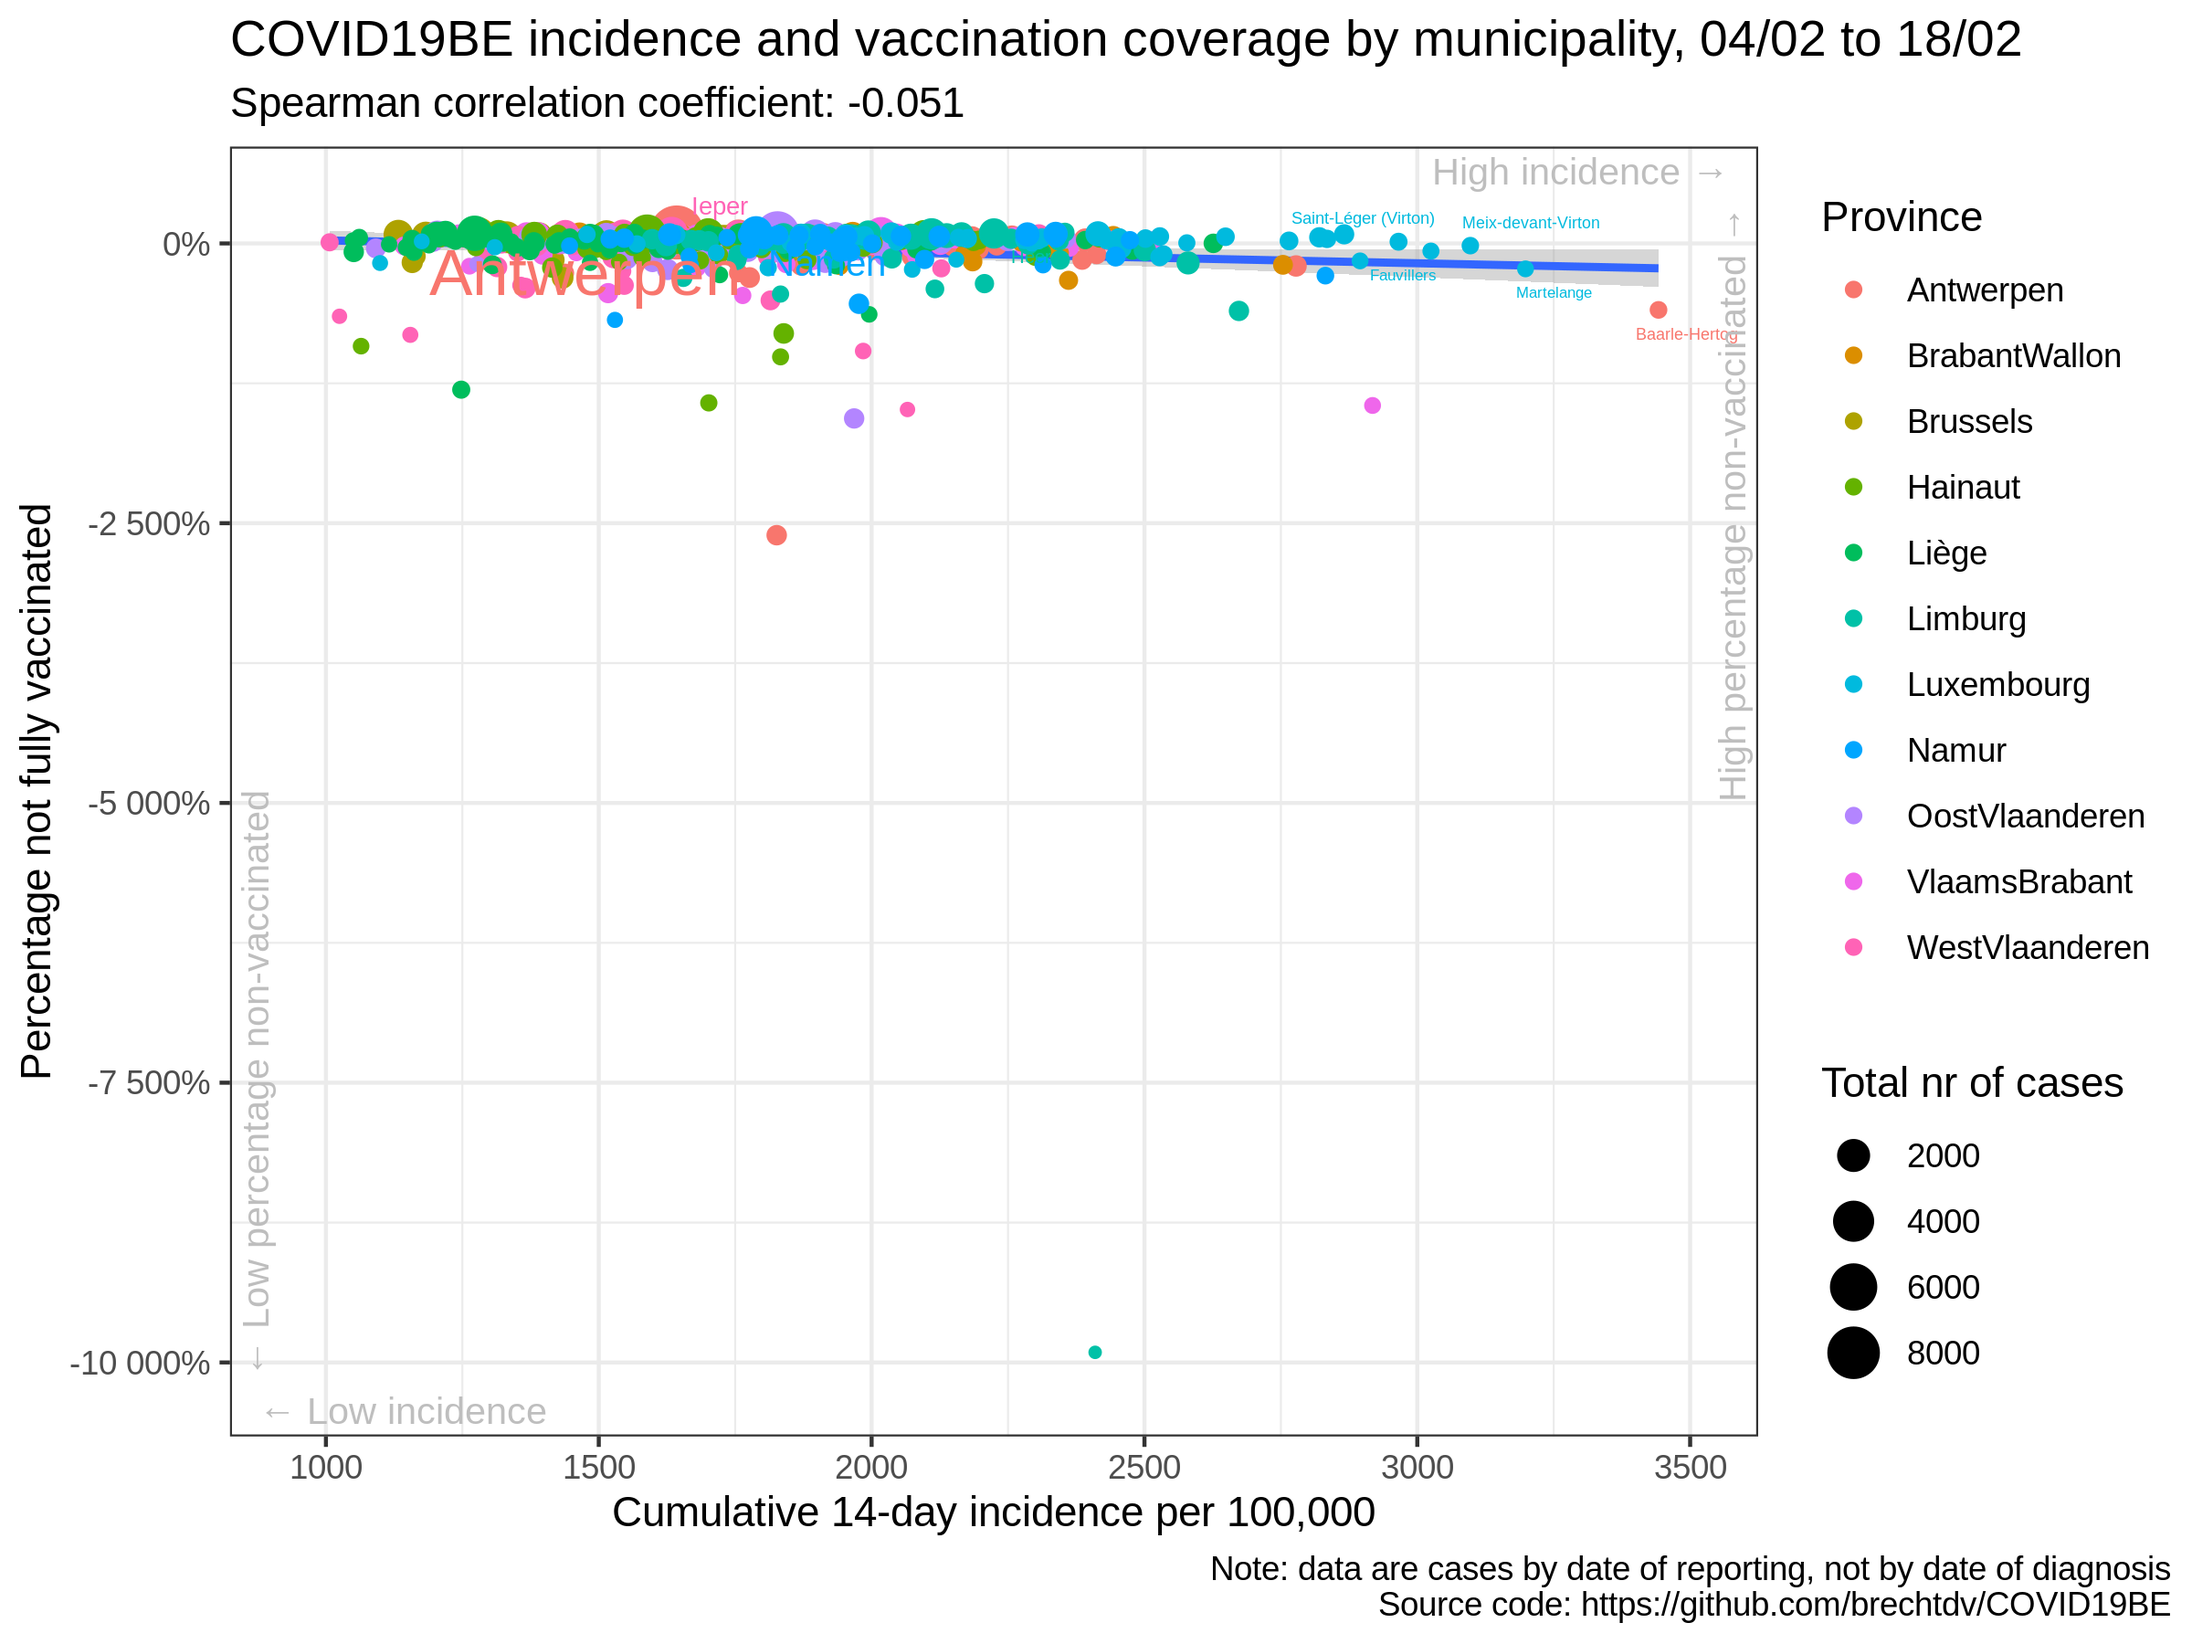
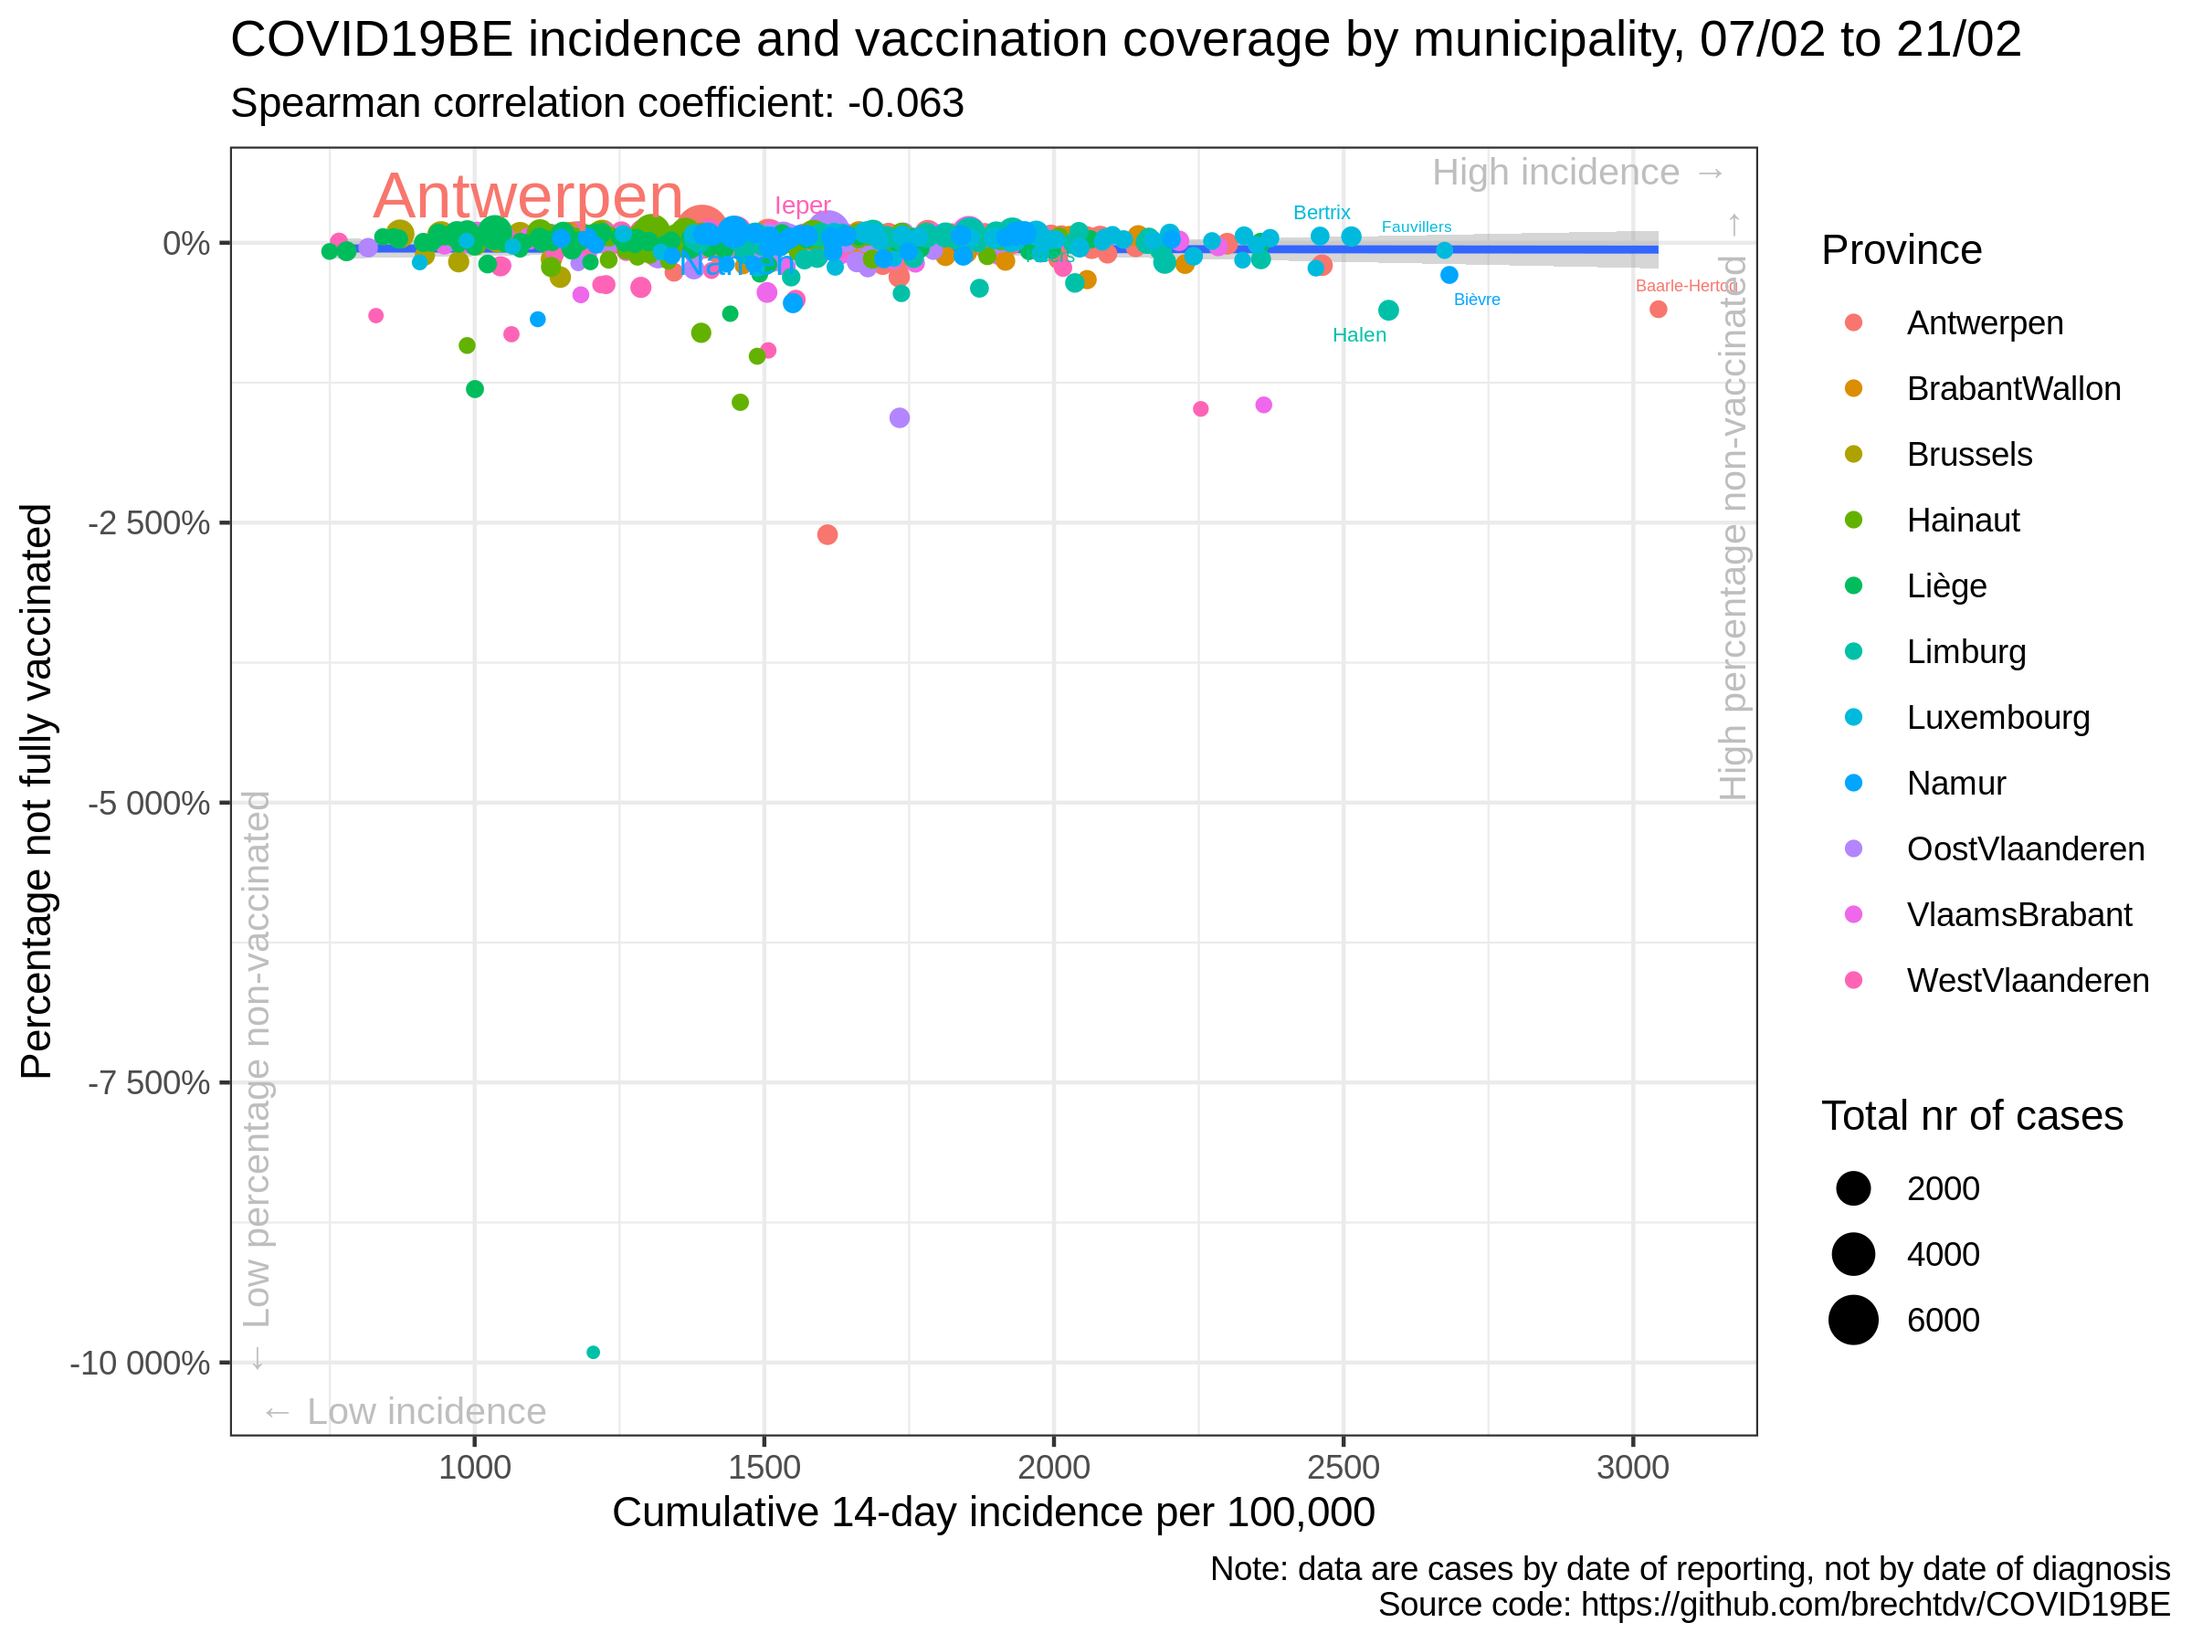
update situation

diff --git a/vaccination/README.md b/vaccination/README.md
@@ -17,35 +17,35 @@
 
 |                | estimate.rho | p.value |
 | :------------- | -----------: | ------: |
-| Antwerpen      |      \-0.050 |   0.680 |
-| BrabantWallon  |      \-0.371 |   0.058 |
-| Brussels       |      \-0.225 |   0.354 |
-| Hainaut        |        0.025 |   0.837 |
-| Liège          |      \-0.081 |   0.461 |
-| Limburg        |      \-0.008 |   0.960 |
-| Luxembourg     |      \-0.105 |   0.497 |
-| Namur          |      \-0.066 |   0.696 |
-| OostVlaanderen |        0.040 |   0.760 |
-| VlaamsBrabant  |      \-0.148 |   0.238 |
-| WestVlaanderen |        0.089 |   0.484 |
-| Belgium        |      \-0.051 |   0.219 |
+| Antwerpen      |      \-0.089 |   0.467 |
+| BrabantWallon  |      \-0.389 |   0.046 |
+| Brussels       |      \-0.223 |   0.358 |
+| Hainaut        |        0.022 |   0.858 |
+| Liège          |      \-0.080 |   0.470 |
+| Limburg        |        0.003 |   0.984 |
+| Luxembourg     |      \-0.026 |   0.864 |
+| Namur          |      \-0.006 |   0.973 |
+| OostVlaanderen |      \-0.040 |   0.760 |
+| VlaamsBrabant  |      \-0.121 |   0.336 |
+| WestVlaanderen |        0.145 |   0.253 |
+| Belgium        |      \-0.063 |   0.131 |
 
 ### Correlation cumulative incidence vs booster rate
 
 |                | estimate.rho | p.value |
 | :------------- | -----------: | ------: |
-| Antwerpen      |      \-0.057 |   0.639 |
-| BrabantWallon  |      \-0.383 |   0.049 |
-| Brussels       |      \-0.275 |   0.253 |
-| Hainaut        |        0.030 |   0.807 |
-| Liège          |      \-0.079 |   0.473 |
-| Limburg        |      \-0.019 |   0.904 |
-| Luxembourg     |      \-0.099 |   0.520 |
-| Namur          |      \-0.058 |   0.731 |
-| OostVlaanderen |        0.039 |   0.769 |
-| VlaamsBrabant  |      \-0.180 |   0.152 |
-| WestVlaanderen |        0.081 |   0.524 |
-| Belgium        |      \-0.061 |   0.144 |
+| Antwerpen      |      \-0.093 |   0.446 |
+| BrabantWallon  |      \-0.400 |   0.040 |
+| Brussels       |      \-0.281 |   0.243 |
+| Hainaut        |        0.020 |   0.867 |
+| Liège          |      \-0.080 |   0.469 |
+| Limburg        |      \-0.002 |   0.991 |
+| Luxembourg     |      \-0.018 |   0.908 |
+| Namur          |        0.005 |   0.977 |
+| OostVlaanderen |      \-0.040 |   0.758 |
+| VlaamsBrabant  |      \-0.152 |   0.225 |
+| WestVlaanderen |        0.141 |   0.265 |
+| Belgium        |      \-0.081 |   0.052 |
 
 ### Data source
 
